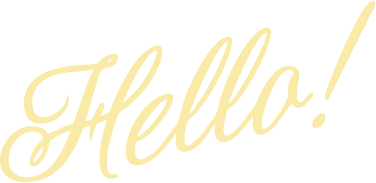
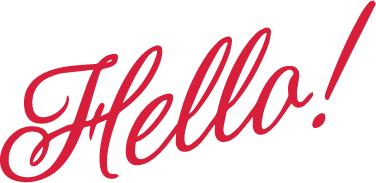
Changed colours and layout a bit

Changed region(s): [[0.0, 0.0, 1.0, 1.0], [0.8191, 0.6011, 0.8777, 0.7104]]

diff --git a/index.html b/index.html
@@ -7,14 +7,27 @@ layout: default
   <header class="big-header">
     <div class="grid">
         <div class="unit xs-1 s-1 m-1-4 l-1-4 text-center">
-          <h3><a href="#portfolio">PORTFOLIO</a></h3>
+          <h3><a href="#portfolio" class="milli">PORTFOLIO</a></h3>
         </div>
 
         <div class="unit xs-hidden s-hidden m-1-2 l-1-2"></div>
 
         <div class="unit xs-1 s-1 m-1-4 l-1-4 text-center">
-          <h3><a href="#about">ABOUT ME</a></h3>
+          <h3><a href="#about" class="milli">ABOUT ME</a></h3>
         </div>
+
+        <div class="unit xs-1 s-1 m-1 l-1 text-center island">
+          <div class="header-text text-center center-block">
+            <p class="hello-there yotta bold">Hello!</p>
+            <p class="intro-line">I am a freelance designer and illustrator currently working from Ottawa. Feel free to contact me if you need help with anything!</p>
+            <div class="social-media right unit xs-1 s-1 m-1 l-1 xl-1">
+              <a href="https://www.linkedin.com/in/katrin-emery/" class="fa fa-linkedin" rel="external"></a>
+              <a href="https://vimeo.com/user42542197" class="fa fa-vimeo" rel="external"></a>
+              <a href="https://dribbble.com/KatrinEmery" class="fa fa-dribbble" rel="external"></a>
+            </div>
+          </div>
+        </div>
+
     </div>
 
     <div class="logo">
@@ -24,103 +37,86 @@ layout: default
     </div>
   </header>
 
-  <div class="recent-work-outer">
-    <div class="recent-work">
-      <div class="grid island">
-        <div class="unit xs-1 s-1 m-1 l-1 center-block">
-          <h2 class="text-center">MOST RECENT WORK</h2>
-        </div>
-
-        <a class="card-basic center-block push sharp-as-knives" href="{{site.baseurl}}/sharpasknives">
-          <div class="color-overlay">
-          </div>
-          <div class="unit xs-1 s-1 m-1-2 l-1-2">
-            <div class="card-title text-center">
-              <h4>SHARP AS KNIVES</h4>
-            </div>
-          </div>
-        </a>
-
-        <a class="card-basic center-block push motion-reel" href="{{site.baseurl}}/motion">
-          <div class="color-overlay">
-          </div>
-          <div class="unit xs-1 s-1 m-1-2 l-1-2">
-              <div class="card-title text-center">
-                <h4>2017 MOTION REEL</h4>
-              </div>
-          </div>
-        </a>
-
-      </div>
-    </div>
-  </div>
-
-  <div class="grid divider">
-    <div class="unit xs-1 s-1 m-1 l-1">
-      <img src="{{site.baseurl}}/images/makers-gotta-make.png" alt="Makers gotta make">
-    </div>
-  </div>
-
   <div class="recent-work-outer" id="portfolio">
     <div class="recent-work>">
       <div class="all-projects grid island">
 
-        <a class="card-basic center-block push pride-centre" href="{{site.baseurl}}/pridecentre">
+        <a class="card-basic center-block prideweek" href="{{site.baseurl}}/campus-pride-week">
           <div class="color-overlay">
           </div>
           <div class="unit xs-1 s-1 m-1-2 l-1-2">
               <div class="card-title text-center">
-                <h4>ALGONQUIN PRIDE CENTRE</h4>
+                <h4 class="milli">CAMPUS PRIDE WEEK</h4>
               </div>
           </div>
         </a>
 
-        <a class="card-basic center-block push illustration" href="{{site.baseurl}}/illustration">
+        <a class="card-basic center-block sharp-as-knives" href="{{site.baseurl}}/sharpasknives">
           <div class="color-overlay">
           </div>
           <div class="unit xs-1 s-1 m-1-2 l-1-2">
+            <div class="card-title text-center">
+              <h4 class="milli">SHARP AS KNIVES</h4>
+            </div>
+          </div>
+        </a>
+
+        <a class="card-basic center-block motion-reel" href="{{site.baseurl}}/motion">
+          <div class="color-overlay">
+          </div>
+          <div class="unit xs-1 s-1 m-1 l-1 xl-1">
               <div class="card-title text-center">
-                <h4>ILLUSTRATION</h4>
+                <h4 class="milli">2017 MOTION REEL</h4>
               </div>
           </div>
         </a>
 
-        <a class="card-basic center-block push qwords-square" href="{{site.baseurl}}/qwords">
+        <a class="card-basic center-block pride-centre" href="{{site.baseurl}}/pridecentre">
           <div class="color-overlay">
           </div>
           <div class="unit xs-1 s-1 m-1-2 l-1-2">
               <div class="card-title text-center">
-                <h4>QWORDS</h4>
+                <h4 class="milli">ALGONQUIN PRIDE CENTRE</h4>
               </div>
           </div>
         </a>
 
-        <a class="card-basic center-block push posters" href="{{site.baseurl}}/poster-project">
+        <a class="card-basic center-block illustration" href="{{site.baseurl}}/illustration">
           <div class="color-overlay">
           </div>
           <div class="unit xs-1 s-1 m-1-2 l-1-2">
               <div class="card-title text-center">
-                <h4>VARIOUS POSTERS</h4>
+                <h4 class="milli">ILLUSTRATION</h4>
               </div>
           </div>
         </a>
 
-        <a class="card-basic center-block push prideweek" href="{{site.baseurl}}/campus-pride-week">
+        <a class="card-basic center-block qwords-square" href="{{site.baseurl}}/qwords">
           <div class="color-overlay">
           </div>
           <div class="unit xs-1 s-1 m-1-2 l-1-2">
               <div class="card-title text-center">
-                <h4>CAMPUS PRIDE WEEK</h4>
+                <h4 class="milli">QWORDS</h4>
               </div>
           </div>
         </a>
 
-        <a class="card-basic center-block push bird-skate" href="{{site.baseurl}}/girlskate">
+        <a class="card-basic center-block posters" href="{{site.baseurl}}/poster-project">
           <div class="color-overlay">
           </div>
           <div class="unit xs-1 s-1 m-1-2 l-1-2">
               <div class="card-title text-center">
-                <h4>GIRLS+ SKATE 613</h4>
+                <h4 class="milli">VARIOUS POSTERS</h4>
+              </div>
+          </div>
+        </a>
+
+        <a class="card-basic center-block bird-skate" href="{{site.baseurl}}/girlskate">
+          <div class="color-overlay">
+          </div>
+          <div class="unit xs-1 s-1 m-1-2 l-1-2">
+              <div class="card-title text-center">
+                <h4 class="milli">GIRLS+ SKATE 613</h4>
               </div>
           </div>
         </a>
@@ -141,11 +137,11 @@ layout: default
       <img src="{{site.baseurl}}/images/katrin-portrait.jpg" alt="About Me">
     </div>
     <div class="unit s-1 m-1-2 l-1-2 about-text">
-      <h2>A LITTLE ABOUT ME</h2>
+      <h2 class="bold giga">A LITTLE ABOUT ME</h2>
       <p>I'm a graphic designer, illustrator, and creative human being living in Ottawa, Canada. My special abilities include branding, motion graphics, and illustration. I'm a huge fan of supporting local and designing for small businesses.<br><br>I'm incredibly passionate about living ethically and supporting environmentally-positive and socially-positive business practices.</p>
     </div>
     <div class="intro text-center unit xs-1 s-1 m-1 l-1">
-      <h2>KATRIN@KEMERY.CA</h2>
+      <h2 class="bold mega">KATRIN@KEMERY.CA</h2>
     </div>
   </div>
 

diff --git a/css/theme.css b/css/theme.css
@@ -1,13 +1,13 @@
 :root {
-  --color-primary: #352249;
-  --color-secondary: #FBE8A6;
-  --color-accent: #6DCFF6;
+  --color-primary: #271A36;
+  --color-secondary: #D41F3B;
+  --color-accent: #E4DE65;
   --color-dark: #35484e;
-  --background-color: #EA3E72;
+  --background-color: white;
 
-  --font-primary: "mr-eaves-sans",arial,sans-serif;
+  --font-primary: "quasimoda",arial,sans-serif;
   --font-secondary: "museo-sans",arial,sans-serif;
-  --font-buttons: "mr-eaves-sans",arial,sans-serif;
+  --font-buttons: "quasimoda",arial,sans-serif;
 }
 
   h1 {
@@ -35,7 +35,7 @@
   h4 {
     font-family: var(--font-primary);
     font-weight: normal;
-    color: var(--color-secondary);
+    color: var(--color-accent);
   }
 
   p {
@@ -165,3 +165,56 @@
     text-align: center;
     text-decoration: none;
   }
+
+  .hello-there {
+    color: var(--color-secondary);
+  }
+
+  .intro-line {
+    color: var(--color-secondary);
+  }
+
+  .header-text {
+    max-width: 25em;
+    padding-top: 1em;
+  }
+
+@media only screen and (min-width: 47.2em) {
+
+  .prideweek {
+    margin-right: 0;
+  }
+
+  .sharp-as-knives {
+    margin-left: 0;
+  }
+
+  .motion-reel {
+    margin-right: 0;
+  }
+
+  .pride-centre {
+    margin-left: 0;
+  }
+
+  .illustration {
+    margin-right: 0;
+  }
+
+  .qwords-square {
+    margin-left: 0;
+  }
+
+  .posters {
+    margin-right: 0;
+  }
+
+  .bird-skate {
+    margin-left: 0;
+  }
+
+  .header-text {
+    padding-top: 5em;
+  }
+
+}

diff --git a/motion.html b/motion.html
@@ -20,7 +20,7 @@ bodyclass: motion
 
     <div class="logo">
       <a href="{{site.baseurl}}/">
-        <img src="{{site.baseurl}}/images/katrinemery.png" alt="Katrin Emery">
+        <img src="{{site.baseurl}}/images/katrinemery-wh.png" alt="Katrin Emery">
       </a>
     </div>
   </div>
@@ -32,7 +32,7 @@ bodyclass: motion
 
   <div class="project">
     <div class="embed embed-16by9 center-text">
-      <iframe src="https://player.vimeo.com/video/233692223?color=FBE8A6&portrait=0" class="embed-item" frameborder="0" webkitallowfullscreen mozallowfullscreen allowfullscreen></iframe>
+      <iframe src="https://player.vimeo.com/video/259797829?color=ffffff" class="embed-item" frameborder="0" webkitallowfullscreen mozallowfullscreen allowfullscreen></iframe>
     </div>
   </div>
 

diff --git a/css/header.css b/css/header.css
@@ -1,16 +1,16 @@
 .big-header {
-  background-color: var(--color-primary);
-  height: 30em;
+  height: 25em;
   padding-top: 6em;
-  background-image: linear-gradient(to bottom, transparent, rgba(53, 34, 73, 1) 0%, rgba(255, 255, 255, 0) 100%), url("../images/girl-header.jpg");
-  background-size: cover;
-  background-position: center;
 }
 
 .small-header {
   background-color: var(--color-primary);
   height: 11em;
   padding-top: 5em;
+}
+
+.header-text .fa {
+  color: var(--color-primary);
 }
 
 .logo img {
@@ -27,9 +27,9 @@
 }
 
 h3 a {
-  color: var(--color-accent);
+  color: var(--color-secondary);
   text-decoration: none;
-  border-bottom: solid var(--background-color) 2px;
+  border-bottom: solid #F1C09F 2px;
   padding-left: 2px;
   padding-right: 2px;
 }

diff --git a/campus-pride-week.html b/campus-pride-week.html
@@ -20,7 +20,7 @@ bodyclass: campus-pride-week
 
     <div class="logo">
       <a href="{{site.baseurl}}/">
-        <img src="{{site.baseurl}}/images/katrinemery.png" alt="Katrin Emery">
+        <img src="{{site.baseurl}}/images/katrinemery-wh.png" alt="Katrin Emery">
       </a>
     </div>
   </div>

diff --git a/illustration.html b/illustration.html
@@ -20,7 +20,7 @@ bodyclass: illustration-page
 
     <div class="logo">
       <a href="{{site.baseurl}}/">
-        <img src="{{site.baseurl}}/images/katrinemery.png" alt="Katrin Emery">
+        <img src="{{site.baseurl}}/images/katrinemery-wh.png" alt="Katrin Emery">
       </a>
     </div>
   </div>

diff --git a/poster-project.html b/poster-project.html
@@ -20,7 +20,7 @@ bodyclass: poster-project
 
     <div class="logo">
       <a href="{{site.baseurl}}/">
-        <img src="{{site.baseurl}}/images/katrinemery.png" alt="Katrin Emery">
+        <img src="{{site.baseurl}}/images/katrinemery-wh.png" alt="Katrin Emery">
       </a>
     </div>
   </div>

diff --git a/sharpasknives.html b/sharpasknives.html
@@ -20,7 +20,7 @@ bodyclass: sharpasknives
 
     <div class="logo">
       <a href="{{site.baseurl}}/">
-        <img src="{{site.baseurl}}/images/katrinemery.png" alt="Katrin Emery">
+        <img src="{{site.baseurl}}/images/katrinemery-wh.png" alt="Katrin Emery">
       </a>
     </div>
   </div>

diff --git a/pridecentre.html b/pridecentre.html
@@ -20,7 +20,7 @@ bodyclass: pridecentre
 
     <div class="logo">
       <a href="{{site.baseurl}}/">
-        <img src="{{site.baseurl}}/images/katrinemery.png" alt="Katrin Emery">
+        <img src="{{site.baseurl}}/images/katrinemery-wh.png" alt="Katrin Emery">
       </a>
     </div>
   </div>

diff --git a/girlskate.html b/girlskate.html
@@ -19,7 +19,7 @@ bodyclass: girl-skate
 
     <div class="logo">
       <a href="{{site.baseurl}}/">
-        <img src="{{site.baseurl}}/images/katrinemery.png" alt="Katrin Emery">
+        <img src="{{site.baseurl}}/images/katrinemery-wh.png" alt="Katrin Emery">
       </a>
     </div>
   </div>

diff --git a/qwords.html b/qwords.html
@@ -20,7 +20,7 @@ bodyclass: qwords
 
     <div class="logo">
       <a href="{{site.baseurl}}/">
-        <img src="{{site.baseurl}}/images/katrinemery.png" alt="Katrin Emery">
+        <img src="{{site.baseurl}}/images/katrinemery-wh.png" alt="Katrin Emery">
       </a>
     </div>
   </div>

diff --git a/css/cards.css b/css/cards.css
@@ -14,13 +14,12 @@
   height: 20em;
   width: 20em;
   background-color: var(--color-primary);
-  opacity: 0.5;
+  opacity: 0.75;
 }
 
-.color-overlay:hover {
-  opacity: 0.8;
-  background-color: var(--color-primary);
 
+.color-overlay:hover {
+  opacity: 0.75;
 }
 
 .sharp-as-knives {
